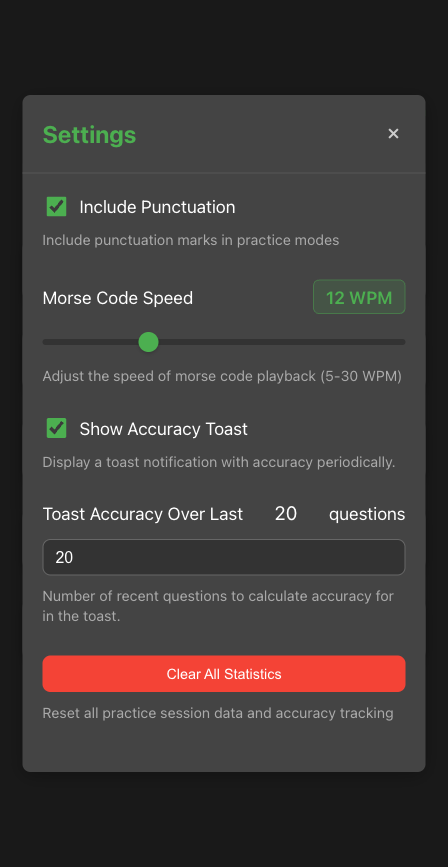
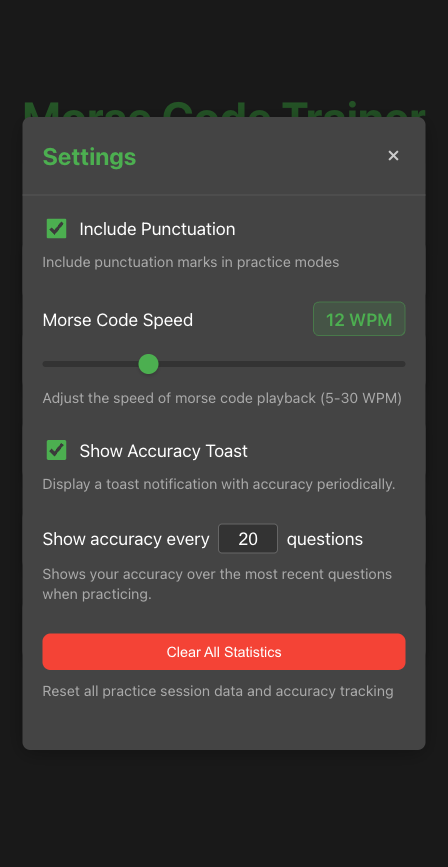
Some fixes to settings UI.

Changed region(s): [[0.0312, 0.0934, 0.9688, 0.9031]]

diff --git a/js/main.js b/js/main.js
@@ -22,7 +22,6 @@ const morseSpeedSlider = document.getElementById('morse-speed-slider');
 const speedDisplay = document.getElementById('speed-display');
 const showToastCheckbox = document.getElementById('show-toast-checkbox');
 const toastQuestionCountInput = document.getElementById('toast-question-count-input');
-const toastQuestionCountDisplay = document.getElementById('toast-question-count-display');
 
 
     // Initialize settings UI
@@ -39,7 +38,6 @@ function initializeSettings() {
     showToastCheckbox.checked = settings.get('showToast');
     const savedToastCount = settings.get('toastQuestionCount');
     toastQuestionCountInput.value = savedToastCount;
-    toastQuestionCountDisplay.textContent = savedToastCount;
     
     // Add event listeners
     settingsBtn.addEventListener('click', openSettings);
@@ -64,7 +62,6 @@ function initializeSettings() {
     toastQuestionCountInput.addEventListener('input', (e) => {
         const count = parseInt(e.target.value);
         if (!isNaN(count) && count >= 1) {
-            toastQuestionCountDisplay.textContent = count;
             settings.set('toastQuestionCount', count);
         }
     });

diff --git a/style.css b/style.css
@@ -844,6 +844,44 @@ body {
     transform: scale(1.1);
 }
 
+/* Inline input styling for settings */
+.setting-item .inline-label {
+    display: inline;
+    align-items: baseline;
+    font-size: 1.1em;
+    margin-bottom: var(--space-md);
+    cursor: default;
+}
+
+.setting-item input[type="number"].inline-input {
+    display: inline-block !important;
+    width: 60px !important;
+    padding: 4px 8px;
+    font-size: 1em;
+    background-color: var(--bg-dark);
+    border: 1px solid var(--border);
+    border-radius: 4px;
+    color: var(--text);
+    text-align: center;
+    margin: 0 4px;
+    vertical-align: baseline;
+    -moz-appearance: textfield;
+    appearance: none;
+    box-sizing: border-box;
+}
+
+.setting-item input[type="number"].inline-input:focus {
+    outline: none;
+    border-color: var(--primary);
+    box-shadow: 0 0 0 2px rgba(76, 175, 80, 0.3);
+}
+
+.setting-item input[type="number"].inline-input::-webkit-outer-spin-button,
+.setting-item input[type="number"].inline-input::-webkit-inner-spin-button {
+    -webkit-appearance: none;
+    margin: 0;
+}
+
 #speed-display {
     font-weight: 600;
     color: var(--primary);

diff --git a/index.html b/index.html
@@ -92,12 +92,10 @@
                 </div>
                 
                 <div class="setting-item">
-                    <label for="toast-question-count-input" class="speed-label">
-                        Toast Accuracy Over Last
-                        <span id="toast-question-count-display">20</span> questions
+                    <label for="toast-question-count-input" class="inline-label">
+                        Show accuracy every <input type="number" id="toast-question-count-input" min="1" max="100" value="20" step="1" class="inline-input"> questions
                     </label>
-                    <input type="number" id="toast-question-count-input" min="1" max="100" value="20" step="1">
-                    <p class="setting-description">Number of recent questions to calculate accuracy for in the toast.</p>
+                    <p class="setting-description">Shows your accuracy over the most recent questions when practicing.</p>
                 </div>
                 
                 <div class="setting-item">
